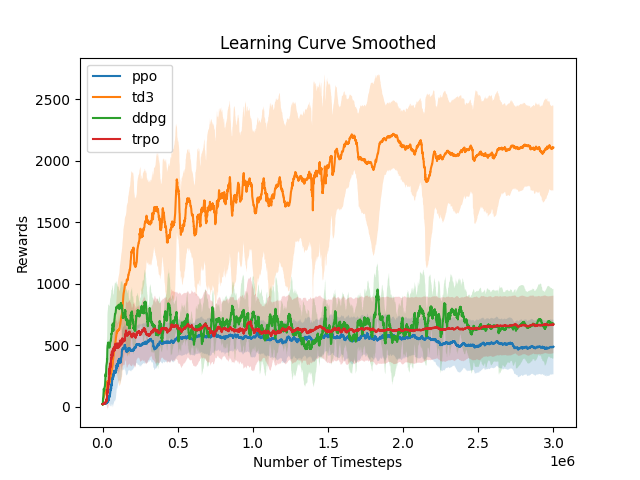
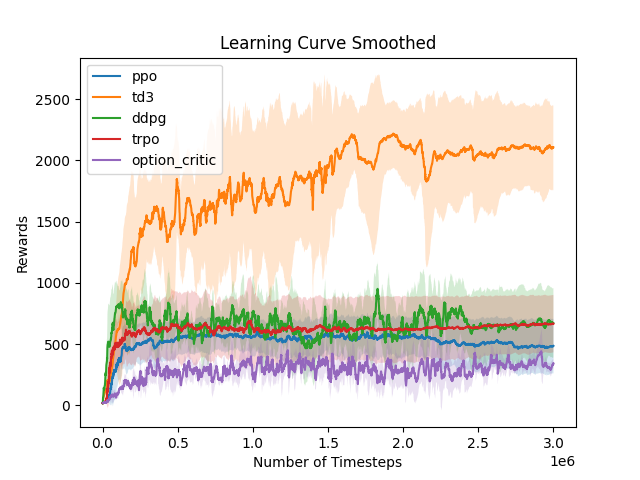
Added option-critic plots

diff --git a/README.md b/README.md
@@ -47,6 +47,13 @@ This repo is a pytorch implementation of various deep RL algorithms, trained and
             <td> :heavy_check_mark: </td>
             <td> :x: </td>
         </tr>       
+        <tr>
+            <td> Option-Critic </td>
+            <td> :heavy_check_mark: </td>
+            <td> :heavy_check_mark: </td>
+            <td> :heavy_check_mark: </td>
+            <td> :x: </td>
+        </tr>   
     </tbody>
 </table>
 
